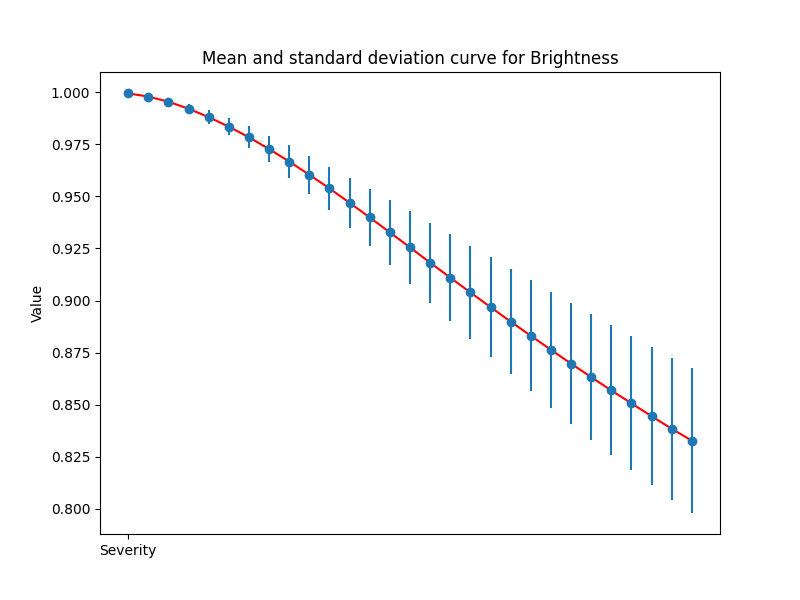
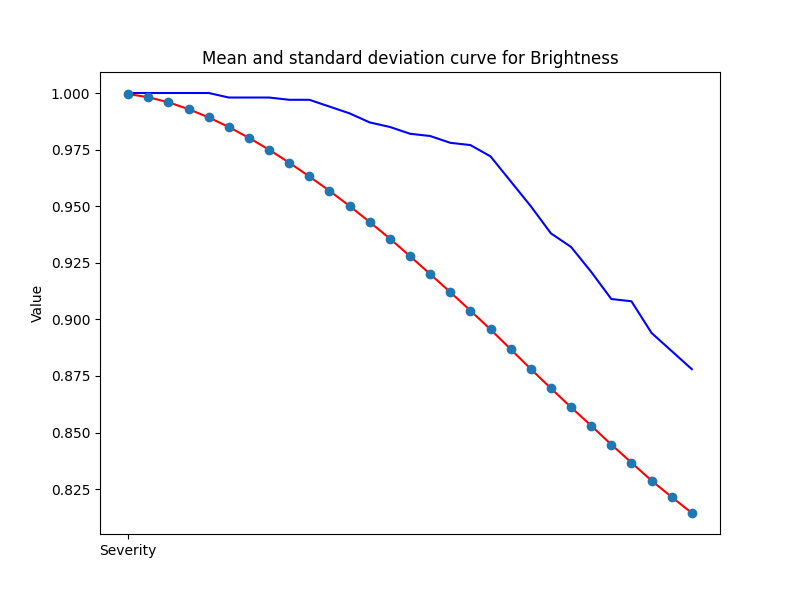
integration

diff --git a/non_linear_mapping.py b/non_linear_mapping.py
@@ -1,5 +1,6 @@
 from augment_dataset import create_transforms, load_data
 from utils.plot_non_linear_curve import plot_mean_std, get_mean_std
+from wideresnet import WideResNet_28_4
 from evaluate import evaluate_model
 import torch
 
@@ -9,6 +10,7 @@ def get_plot(augmentation_type, model, dataset_split=100):
         f"\n============================ Processing augmentation type: {augmentation_type} ============================\n"
     )
     mean_list, std_list = [], []
+    accuracy_list = []
 
     for severity in range(1, 30):
         print(f"Processing severity: {severity}\n")
@@ -24,25 +26,27 @@ def get_plot(augmentation_type, model, dataset_split=100):
             transforms_augmentation=augmentation,
             dataset_split=dataset_split,
         )
-        trainloader = torch.utils.data.DataLoader(
+        dataloader = torch.utils.data.DataLoader(
             trainset,
             shuffle=False,
-            batch_size=dataset_split,
+            batch_size=1,
         )
 
         # SSIM Calculation
-        _, _, confidences = next(iter(trainloader))
+        _, _, confidences = next(iter(dataloader))
         mean, std = get_mean_std(confidences)
         mean_list.append(mean.item())
         std_list.append(std.item())
 
         # Model Confidence Calculation
         if model is not None:
-            evaluate_model(model=model, dataloader=trainloader)
+            accuracy = evaluate_model(model=model, dataloader=dataloader)
+            accuracy_list.append(accuracy)
+            # print(f'Accuracy: {accuracy:.2f}%')
         else:
             print(f"\nModel not provided. Skipping model evaluation.\n")
 
-    plot_mean_std(mean_list, std_list, augmentation_type)
+    plot_mean_std(mean_list, std_list, accuracy_list, augmentation_type)
 
     print(
         f"\n============================ Finished: {augmentation_type} ============================\n"
@@ -52,22 +56,26 @@ def get_plot(augmentation_type, model, dataset_split=100):
 if __name__ == "__main__":
     augmentation_types = [
         # "Identity",
-        "ShearX",
-        "ShearY",
-        "TranslateX",
-        "TranslateY",
-        "Rotate",
+        # "ShearX",
+        # "ShearY",
+        # "TranslateX",
+        # "TranslateY",
+        # "Rotate",
         "Brightness",
-        "Color",
-        "Contrast",
-        "Sharpness",
-        "Posterize",
-        "Solarize",
+        # "Color",
+        # "Contrast",
+        # "Sharpness",
+        # "Posterize",
+        # "Solarize",
         # "AutoContrast",
-        "Equalize",
+        # "Equalize",
     ]
 
-    # for augmentation_type in augmentation_types:
-    #     get_plot(augmentation_type)
+    # Load the saved model weights
+    net_path = "/home/ekagra/Desktop/Study/MA/code/models/cifar_net.pth"
+    net = WideResNet_28_4(num_classes=10)
+    net.load_state_dict(torch.load(net_path, map_location=torch.device("cpu")))
+    # net.eval()
 
-    get_plot("Brightness", model=None)
+    for augmentation_type in augmentation_types:
+        get_plot(augmentation_type, model=net, dataset_split=1000)   

diff --git a/evaluate.py b/evaluate.py
@@ -11,21 +11,17 @@ def evaluate_model(model, dataloader):
 
     with torch.no_grad():
         model.eval()
-        for i, data in enumerate(dataloader):
-            images, labels, confidences = data
+        for _, data in enumerate(dataloader):
+            images, labels, _ = data
             outputs = model(images)
             _, predicted = torch.max(outputs.data, 1)
             total += labels.size(0)
             correct += (predicted == labels).sum().item()
             accuracy = correct / total
-            if (i + 1) % 1000 == 0:
-                print(
-                    f"Processed [{i+1}/{len(dataloader)}] - Accuracy: {accuracy*100:.2f}%"
-                )
-        print(
-            f"Accuracy of the network on the CIFAR-10 test dataset: {accuracy * 100:.2f} %"
-        )
-        return accuracy * 100
+        # print(
+        #     f"Accuracy of the network on the CIFAR-10 test dataset: {accuracy * 100:.2f} %"
+        # )
+        return accuracy
 
 
 if __name__ == "__main__":
@@ -35,7 +31,7 @@ if __name__ == "__main__":
     # net_path = '/home/ekagra/Documents/GitHub/MasterArbeit/models/cifar_net_da0_aa1.pth'
     net = WideResNet_28_4(num_classes=10)
     net.load_state_dict(torch.load(net_path, map_location=torch.device("cpu")))
-    net.eval()  # set the model to evaluation mode
+    # net.eval()  # set the model to evaluation mode
 
     # Prepare the DataLoader
     transforms_preprocess, transforms_augmentation = create_transforms(
@@ -43,16 +39,16 @@ if __name__ == "__main__":
         aggressive_augmentation=True,
         custom=True,
         augmentation_name="Brightness",
-        augmentation_severity=5,
+        augmentation_severity=30,
     )
     custom_trainset, custom_testset = load_data(
         transforms_augmentation=transforms_augmentation,
         transforms_preprocess=transforms_preprocess,
-        dataset_split=1000,
+        dataset_split=100,
     )
 
     custom_dataloader = torch.utils.data.DataLoader(
-        custom_testset, batch_size=128, shuffle=False
+        custom_trainset, batch_size=1, shuffle=False
     )
     accuracy = evaluate_model(model=net, dataloader=custom_dataloader)
-    print(f"Accuracy: {accuracy:.2f}%")
+    print(f"Accuracy: {accuracy*100:.2f}%")

diff --git a/utils/plot_non_linear_curve.py b/utils/plot_non_linear_curve.py
@@ -7,11 +7,12 @@ def get_mean_std(confidences_tensor):
     return mean, std
 
 
-def plot_mean_std(mean, std, augmentation_type=None):
+def plot_mean_std(mean, std, model_confidences, augmentation_type=None):
     x = range(1, len(mean) + 1)
     plt.figure(figsize=(8, 6))
-    plt.plot(x, mean, "-", color="red")
+    plt.plot(x, mean, "-", color="red", label='SSIM Confidence')
     plt.errorbar(x, mean, yerr=std, fmt="o")
+    plt.plot(x, model_confidences, "-", color="blue", label="Model Confidence")
     plt.xticks([1], ["Severity"])
     plt.ylabel("Value")
     plt.title(f"Mean and standard deviation curve for {augmentation_type}")
@@ -25,4 +26,5 @@ def plot_mean_std(mean, std, augmentation_type=None):
 if __name__ == "__main__":
     mean = [0.5, 0.6, 0.9, 0.8, 0.7]
     std = [0.1, 0.2, 0.3, 0.4, 0.5]
-    plot_mean_std(mean, std)
+    model_confidences = [0.9, 0.8, 0.7, 0.6, 0.5]
+    plot_mean_std(mean, std, model_confidences, "Brightness")
